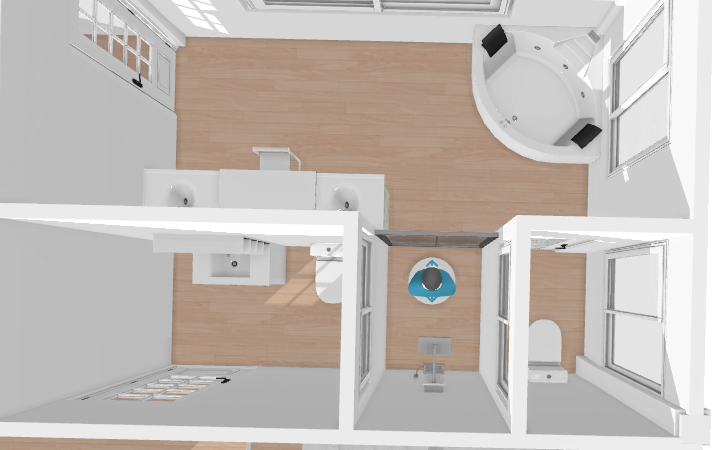
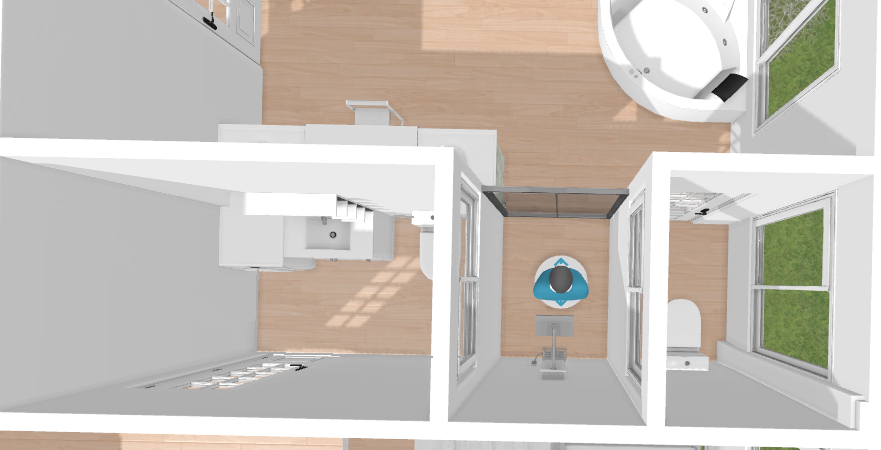
update feedback again

diff --git a/06282020/README.md b/06282020/README.md
@@ -22,7 +22,7 @@
     - 餐厅加一个工作台，带水槽。见截图
 - 三楼
   - 家庭影院和休闲区不用墙隔开。可以合并为休闲区，采用落地窗或者半落地窗
-  - 露台上可以有一个洗手池
+  - 露台上可以有一个洗手池。露台能否用玻璃罩上一半？方便晒东西。
   - 主卧修改同二楼
   - 次卧修改同二楼
   - 主卫在两个洗手池之间加一个梳妆台区域。淋浴间和马桶间换一下，马桶间与淋浴间之间加一个高位窗。见截图
